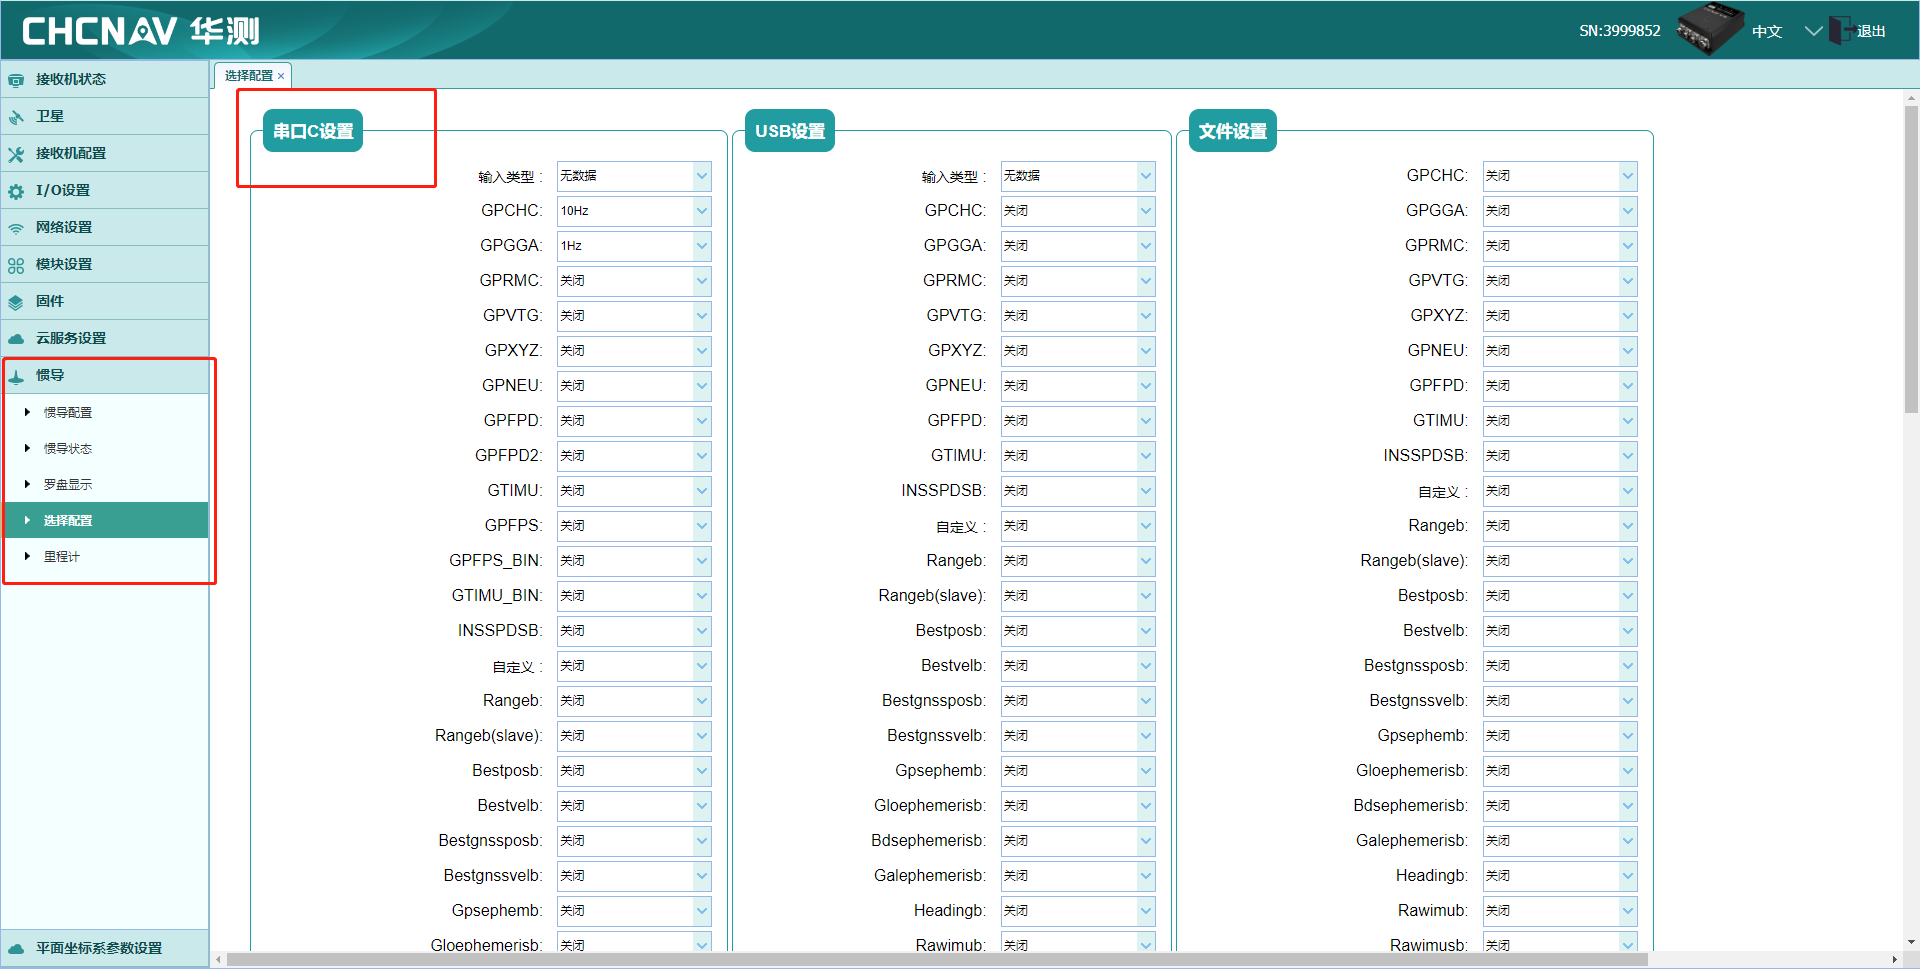
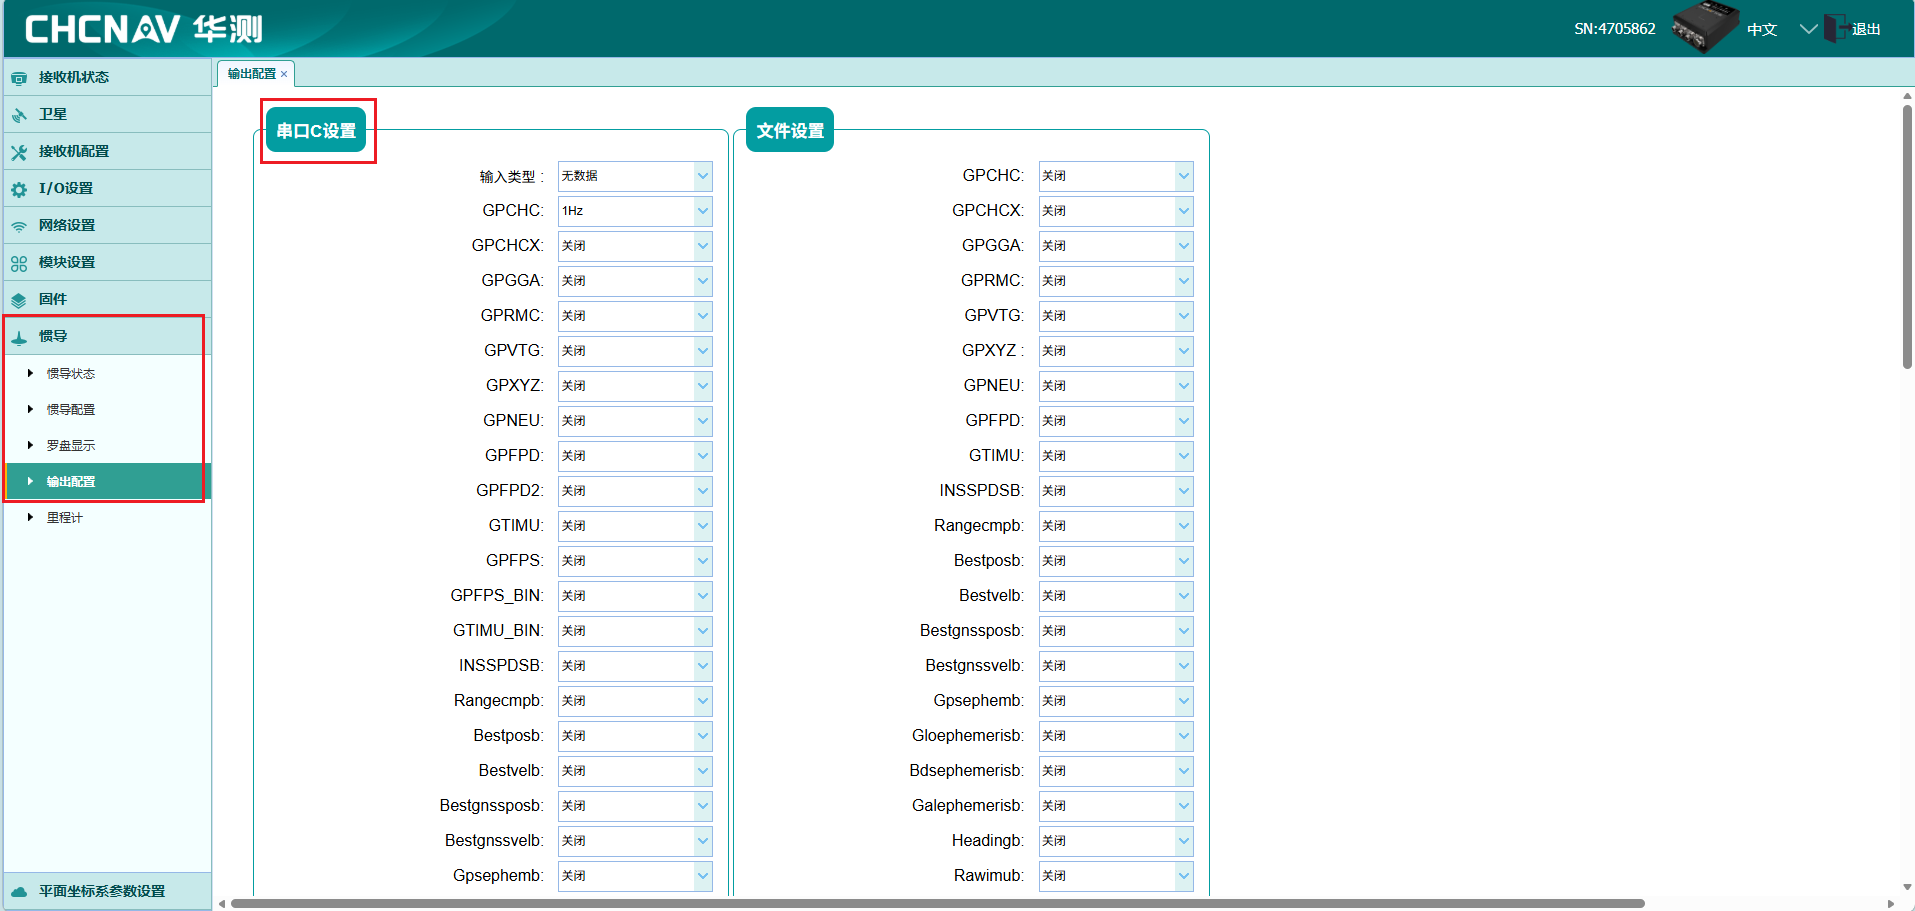
重构readme，devimu 加速度变量名称更改

Changed region(s): [[0.0, 0.0, 1.0, 1.0], [0.9859, 0.9835, 1.0, 1.0]]

diff --git a/ros2/foxy-chcnav-cgi_ros2pkg_v1.0.5/src/chcnav/src/hc_cgi_protocol_process_node/HcCgiProtocolProcessNode.cpp b/ros2/foxy-chcnav-cgi_ros2pkg_v1.0.5/src/chcnav/src/hc_cgi_protocol_process_node/HcCgiProtocolProcessNode.cpp
@@ -218,10 +218,10 @@ static void msg_deal__hcrawimuib(const msg_interfaces::msg::HcSentence::ConstPtr
         devimu.angular_velocity.y = *((float *)(&msg->data[36]));
         devimu.angular_velocity.z = *((float *)(&msg->data[40]));
 
-        // xyz角角速度 g
-        devimu.angular_acceleration.x = *((float *)(&msg->data[44]));
-        devimu.angular_acceleration.y = *((float *)(&msg->data[48]));
-        devimu.angular_acceleration.z = *((float *)(&msg->data[52]));
+        // xyz加速度 g
+        devimu.linear_acceleration.x = *((float *)(&msg->data[44]));
+        devimu.linear_acceleration.y = *((float *)(&msg->data[48]));
+        devimu.linear_acceleration.z = *((float *)(&msg->data[52]));
 
         // 温度
         devimu.temp = *((float *)(&msg->data[56]));
@@ -251,10 +251,10 @@ static void msg_deal__hcrawimuib(const msg_interfaces::msg::HcSentence::ConstPtr
         devimu.angular_velocity.y = ((float)*((short *)(&msg->data[16]))) / 80.0;
         devimu.angular_velocity.z = ((float)*((short *)(&msg->data[18]))) / 80.0;
 
-        // xyz角角速度 g
-        devimu.angular_acceleration.x = ((float)*((short *)(&msg->data[20]))) / 5000.0;
-        devimu.angular_acceleration.y = ((float)*((short *)(&msg->data[22]))) / 5000.0;
-        devimu.angular_acceleration.z = ((float)*((short *)(&msg->data[24]))) / 5000.0;
+        // xyz加速度 g
+        devimu.linear_acceleration.x = ((float)*((short *)(&msg->data[20]))) / 5000.0;
+        devimu.linear_acceleration.y = ((float)*((short *)(&msg->data[22]))) / 5000.0;
+        devimu.linear_acceleration.z = ((float)*((short *)(&msg->data[24]))) / 5000.0;
 
         // 温度
         devimu.temp = ((float)*((short *)(&msg->data[26]))) / 100.0;

diff --git a/ros2/foxy-chcnav-cgi_ros2pkg_v1.0.5/src/chcnav/src/demo/RecordMsgToFile.cpp b/ros2/foxy-chcnav-cgi_ros2pkg_v1.0.5/src/chcnav/src/demo/RecordMsgToFile.cpp
@@ -155,9 +155,9 @@ static void devimu_sentence_callback(const msg_interfaces::msg::Hcrawimub::Const
     fprintf(gs_fp__devimu_time_record, "%lf,", msg->angular_velocity.x);
     fprintf(gs_fp__devimu_time_record, "%lf,", msg->angular_velocity.y);
     fprintf(gs_fp__devimu_time_record, "%lf,", msg->angular_velocity.z);
-    fprintf(gs_fp__devimu_time_record, "%lf,", msg->angular_acceleration.x);
-    fprintf(gs_fp__devimu_time_record, "%lf,", msg->angular_acceleration.y);
-    fprintf(gs_fp__devimu_time_record, "%lf,", msg->angular_acceleration.z);
+    fprintf(gs_fp__devimu_time_record, "%lf,", msg->linear_acceleration.x);
+    fprintf(gs_fp__devimu_time_record, "%lf,", msg->linear_acceleration.y);
+    fprintf(gs_fp__devimu_time_record, "%lf,", msg->linear_acceleration.z);
     fprintf(gs_fp__devimu_time_record, "%lf,", msg->temp);
     fprintf(gs_fp__devimu_time_record, "%d,", msg->err_status);
     fprintf(gs_fp__devimu_time_record, "%d", msg->yaw);

diff --git a/ros2/foxy-chcnav-cgi_ros2pkg_v1.0.5/src/chcnav/readme/README.md b/ros2/foxy-chcnav-cgi_ros2pkg_v1.0.5/src/chcnav/readme/README.md
@@ -2,15 +2,15 @@
 
 本驱动（`chcnav` 功能包）用于接入华测导航 CGI 系列组合导航设备：通过 **串口 / TCP / UDP / CAN / 文件** 读取设备输出的混合协议数据（华测 CGI 自定义二进制协议 + NMEA 协议），完成分类、校验与解析，并发布为 ROS2 话题；同时支持通过 NTRIP 在设备无网络时转发差分数据辅助固定。
 
-| 版本   | 更改说明                         | 更改人 | 日期       |
-| ------ | -------------------------------- | ------ | ---------- |
-| V0.4   | 初版                             | 吴其荣 | 2023-04-10 |
-| V0.4.1 | 更新 udp 文档                    | 吴其荣 | 2023-04-18 |
-| V0.4.2 | 更新环境准备文档                 | 张小镛 | 2023-08-16 |
-| V1.0.0 | ROS2 使用说明文档                | 张小镛 | 2023-10-09 |
-| V1.0.3 | 支持 arm 架构                    | 程彦淇 | 2025-12-05 |
-| V1.0.4 | 修复 demo 6 无法登录 cors 的问题 | 王延祥 | 2026-05-12 |
-| V1.0.5 | README文档重构                   | 王延祥 | 2026-07-06 |
+| 版本   | 更改说明                                     | 更改人 | 日期       |
+| ------ | -------------------------------------------- | ------ | ---------- |
+| V0.4   | 初版                                         | 吴其荣 | 2023-04-10 |
+| V0.4.1 | 更新 udp 文档                                | 吴其荣 | 2023-04-18 |
+| V0.4.2 | 更新环境准备文档                             | 张小镛 | 2023-08-16 |
+| V1.0.0 | ROS2 使用说明文档                            | 张小镛 | 2023-10-09 |
+| V1.0.3 | 支持 arm 架构                                | 程彦淇 | 2025-12-05 |
+| V1.0.4 | 修复 demo 6 无法登录 cors 的问题             | 王延祥 | 2026-05-12 |
+| V1.0.5 | README文档重构，修改 devimu 加速度的变量名称 | 王延祥 | 2026-07-06 |
 
 ---
 
@@ -297,7 +297,7 @@ angular_velocity:
   x: 0.399196624756
   y: 0.00500373821706
   z: 0.11791343987
-angular_acceleration:
+linear_acceleration:
   x: -0.009342151694
   y: 0.00973399356008
   z: 0.999167382717